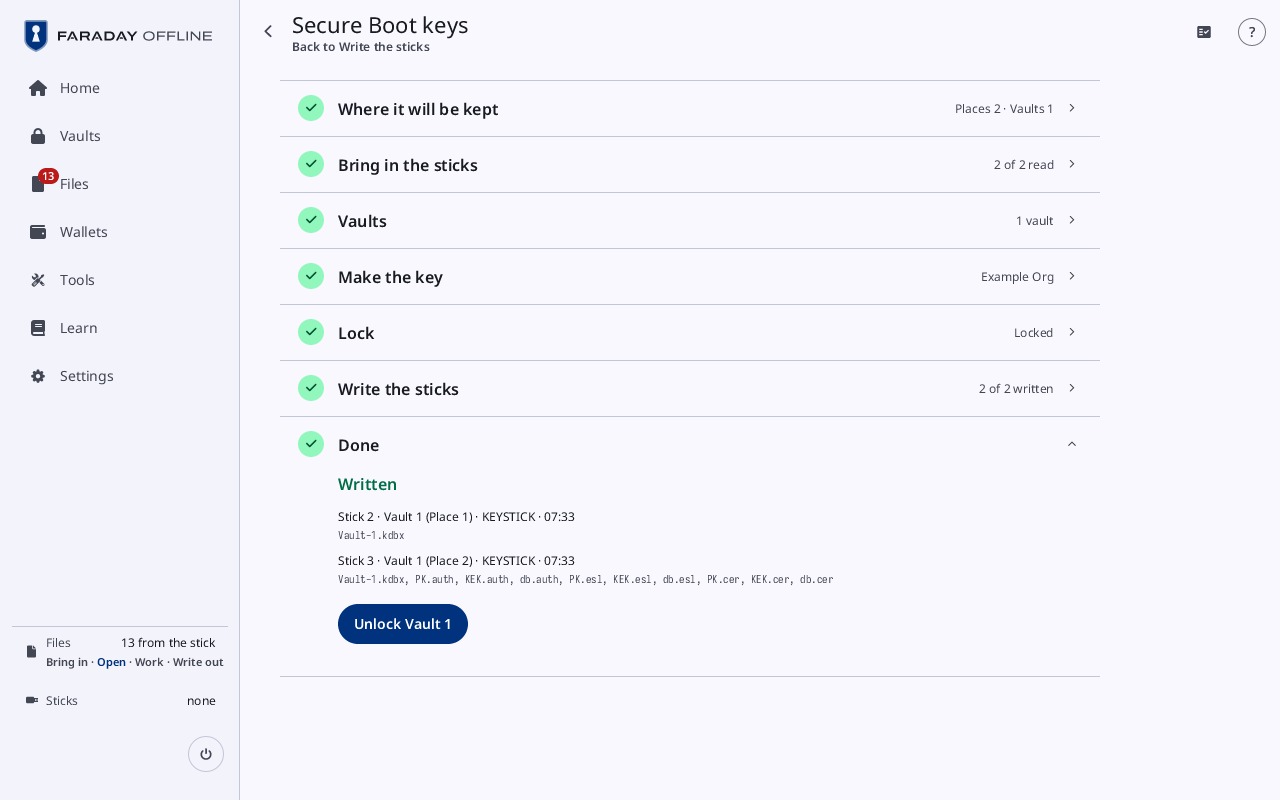
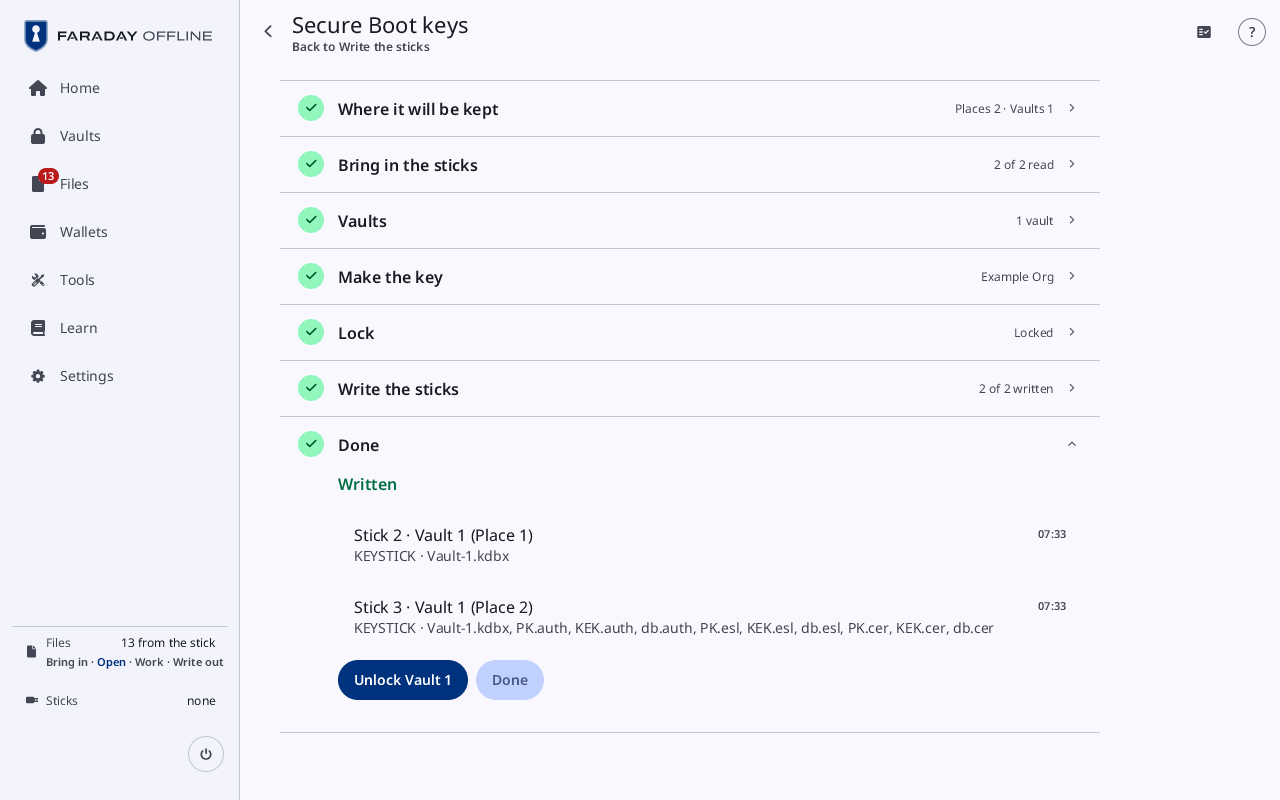
A step's count in Spend, Restore and Back up reads "Step 6" with no total, since the list of steps grows or shrinks as the flow goes on, and Back up's Done page lists one row per stick written and ends on a filled Done button that leaves the flow as the back arrow does; a stick's row there states wh
Material: progress-indicators, buttons, lists
Reviewed: repo.tests-user-facing
Reviewed: tree.image-metadata
Reviewed: crypto.kept-values
Reviewed: crypto.costs-said
Reviewed: keys.secret-files
Reviewed: keys.child-vault-only
Reviewed: speed.late-flow-timed
Reviewed: speed.shown-secret-held
Reviewed: structure.areas-private
Reviewed: strings.no-explanation
Reviewed: strings.plain
Reviewed: strings.medium
Reviewed: design.left-out
Reviewed: guide.pictures

diff --git a/faraday/faraday-core/src/backup_flow/screen.rs b/faraday/faraday-core/src/backup_flow/screen.rs
@@ -1,5 +1,5 @@
 //! The backup flow's cards (`docs/BACKUP-FLOW.md` §4, §5): step cards on a
-//! wide panel, pages with "Step 2 of 7" on a small one. Drawing only; what
+//! wide panel, pages with "Step 2" on a small one. Drawing only; what
 //! a press does is `backup_flow/steps.rs`. The Create a vault form is
 //! `vault::screen::create`, drawn in the flow's place while a vault is
 //! made.
@@ -94,6 +94,7 @@ pub(crate) fn draw(app: &View, ui: &mut Ui, x0: f32, cw: f32, h: f32) {
         guided: f.is_setup() && app.guided(),
         switch: f.is_setup(),
         wrap_closed: false,
+        total_fixed: false,
         note: None,
         chip: named.map(|n| n.1),
         chip_tap: None,
@@ -1510,20 +1511,16 @@ fn done_body(app: &View, f: &BackupFlow, ui: &mut Ui, x: f32, y: f32, w: f32) ->
             .flow_slot_row(k)
             .unwrap_or_else(|| f.target_short(&s.target, app.medium.noun()));
         let at = read_time(app, wr.time);
-        cy += ui.wrap_as(
-            (x, cy, w),
-            BODY_S,
-            Role::OnSurface,
-            &format!("{name} · {} · {at}", wr.label),
-        ) + 4.0;
         // What was written to it, the public files with the copies.
         let files: Vec<&str> = wr.files.iter().map(|(n, _)| n.as_str()).collect();
-        cy += ui.wrap_as(
-            (x, cy, w),
-            BODY_S.mono(),
-            Role::OnSurfaceVariant,
-            &files.join(", "),
-        ) + 8.0;
+        let sup = fill(FEN.backup_flow_slot_row, &[&wr.label, &files.join(", ")]);
+        let it = faraday_ui::roles::ListItem {
+            headline: &name,
+            supporting: &sup,
+            trailing: Some((&at, Role::OnSurfaceVariant.paint())),
+            action: fa(F::Back),
+        };
+        cy += ui.list_item_still((x, cy, w), &it);
     }
     cy += 8.0;
     // In Guided, extra copies (`docs/BACKUP-FLOW.md` §17.19 item 7).
@@ -1539,14 +1536,14 @@ fn done_body(app: &View, f: &BackupFlow, ui: &mut Ui, x: f32, y: f32, w: f32) ->
             Style::Primary,
             fa(F::UnlockDone(v)),
         ));
-    } else if f.kind.is_wallet() {
-        // A plan with no vault leaves nothing to unlock.
-        items.push((
-            FEN.backup_flow_leave.to_string(),
-            Style::Primary,
-            fa(F::Leave),
-        ));
     }
+    // Done leaves the flow as the back arrow does.
+    let lead = if items.is_empty() {
+        Style::Primary
+    } else {
+        Style::Tonal
+    };
+    items.push((FEN.backup_flow_done_button.to_string(), lead, fa(F::Back)));
     let refs: Vec<(&str, Style, Action)> =
         items.iter().map(|(l, s, a)| (l.as_str(), *s, *a)).collect();
     cy += crate::screens::wrap_buttons(ui, x, cy, w, 40.0, &refs) + 6.0;

diff --git a/faraday/faraday-core/tests/all/spend_loaded.rs b/faraday/faraday-core/tests/all/spend_loaded.rs
@@ -288,3 +288,78 @@ fn a_loaded_wallets_card_keeps_its_lines_apart_at_every_text_size() {
         }
     }
 }
+
+/// A step's count never states a total that a later step changes: the
+/// number of steps is not known before the flow's input is read.
+#[test]
+fn a_spend_s_step_count_states_no_total() {
+    let mut app = spending_review(false);
+    app.event(Event::Display(DisplayInfo {
+        width: 480,
+        height: 640,
+        dpi: 160,
+        inset_bottom: 0,
+        inset_top: 0,
+        buttons: 0,
+        camera_fixed: false,
+        secure: SecureHardware::None,
+        boot: BootState::Unknown,
+        memory_mib: None,
+    }));
+    let shown = crate::common::texts(&mut app);
+    assert!(
+        shown.iter().any(|t| t.starts_with("Step ")),
+        "a step is counted: {shown:?}"
+    );
+    assert!(
+        !shown
+            .iter()
+            .any(|t| t.starts_with("Step ") && t.contains(" of ")),
+        "a step count states a total: {shown:?}"
+    );
+}
+
+/// Spend from a backup counts its steps without a total: the list grows
+/// once the transaction is read.
+#[test]
+fn spending_from_a_backup_counts_its_steps_without_a_total() {
+    use faraday_core::strings::EN;
+    let c = testkit::compute();
+    let mut app = with_files(vec![savings_psbt()]);
+    app.event(Event::Display(DisplayInfo {
+        width: 480,
+        height: 640,
+        dpi: 160,
+        inset_bottom: 0,
+        inset_top: 0,
+        buttons: 0,
+        camera_fixed: false,
+        secure: SecureHardware::None,
+        boot: BootState::Unknown,
+        memory_mib: None,
+    }));
+    add_key(&mut app, 0);
+    add_key(&mut app, 1);
+    app.session
+        .add_wallet(
+            &c,
+            "Savings",
+            &kit("savings").descriptor,
+            EN.create_make_made_here,
+            faraday_core::wallet::Origin::Statement,
+        )
+        .unwrap();
+    app.press(Action::Nav(Screen::SpendBackup));
+    app.press(Action::SpendBackup(F::SpendFrom(0)));
+    let shown = crate::common::texts(&mut app);
+    assert!(
+        shown.iter().any(|t| t.starts_with("Step ")),
+        "a step is counted: {shown:?}"
+    );
+    assert!(
+        !shown
+            .iter()
+            .any(|t| t.starts_with("Step ") && t.contains(" of ")),
+        "a step count states a total: {shown:?}"
+    );
+}

diff --git a/faraday/faraday-ui/src/roles.rs b/faraday/faraday-ui/src/roles.rs
@@ -615,11 +615,23 @@ impl<A: Copy + PartialEq> Ui<'_, A> {
     /// or three lines by its supporting text (the third line cut with an
     /// ellipsis); `chosen` in Material's selected state (secondary
     /// container). The whole item takes its press. Returns its height.
-    pub fn list_item(
+    pub fn list_item(&mut self, at: (f32, f32, f32), it: &ListItem<'_, A>, chosen: bool) -> f32 {
+        self.list_item_as(at, it, chosen, true)
+    }
+
+    /// A list item as [`Ui::list_item`] draws it that takes no press: a
+    /// row that only states what is there (Material 3 Lists, a
+    /// non-interactive item). Its `action` is not used. Returns its height.
+    pub fn list_item_still(&mut self, at: (f32, f32, f32), it: &ListItem<'_, A>) -> f32 {
+        self.list_item_as(at, it, false, false)
+    }
+
+    fn list_item_as(
         &mut self,
         (x, y, w): (f32, f32, f32),
         it: &ListItem<'_, A>,
         chosen: bool,
+        pressed: bool,
     ) -> f32 {
         let lines = self.list_lines(w, it);
         let h = self.list_item_height(w, it);
@@ -630,7 +642,9 @@ impl<A: Copy + PartialEq> Ui<'_, A> {
             self.fill(x, y, w, h, SHAPE_L, selected_or(true, Role::Surface));
         }
         let ink = on_selected(chosen, Role::OnSurface);
-        self.press(Shape::new(x, y, w, h, SHAPE_L), ink, it.action);
+        if pressed {
+            self.press(Shape::new(x, y, w, h, SHAPE_L), ink, it.action);
+        }
         let (line, sup) = (self.line_as(BODY_L), self.line_as(BODY_M));
         let head_lines = self.list_head_lines(w, it);
         let head = line * head_lines as f32;

diff --git a/faraday/faraday-core/tests/all/restore.rs b/faraday/faraday-core/tests/all/restore.rs
@@ -882,3 +882,36 @@ fn a_codex32_secret_read_at_restores_scan_goes_into_its_slot() {
     let s = app.restore().unwrap().seeds.as_ref().unwrap();
     assert_eq!(s.keys, vec![fp], "the slot does not hold the key");
 }
+
+/// A step's count never states a total that a later step changes: the
+/// small panel's Restore reads "Step 2", not "Step 2 of 6".
+#[test]
+fn a_restore_s_step_count_states_no_total() {
+    let mut app = shown();
+    app.event(Event::Display(DisplayInfo {
+        width: 480,
+        height: 640,
+        dpi: 160,
+        inset_bottom: 0,
+        inset_top: 0,
+        buttons: 0,
+        camera_fixed: false,
+        secure: SecureHardware::None,
+        boot: BootState::Unknown,
+        memory_mib: None,
+    }));
+    app.press(Action::RestoreWallet);
+    app.press(Action::RKind(MULTI));
+    app.press(Action::RNext(KIND));
+    let shown = crate::common::texts(&mut app);
+    assert!(
+        shown.iter().any(|t| t.starts_with("Step ")),
+        "a step is counted: {shown:?}"
+    );
+    assert!(
+        !shown
+            .iter()
+            .any(|t| t.starts_with("Step ") && t.contains(" of ")),
+        "a step count states a total: {shown:?}"
+    );
+}

diff --git a/faraday/faraday-core/src/flow.rs b/faraday/faraday-core/src/flow.rs
@@ -85,6 +85,10 @@ pub struct Column<'a> {
     /// On the compact layout, whether a closed card's line too long for its
     /// row wraps; otherwise it is cut to fit.
     pub wrap_closed: bool,
+    /// Whether the number of steps is known before the first and never
+    /// changes; where it can (Spend, Restore, Backup)
+    /// a step reads "Step N" alone.
+    pub total_fixed: bool,
     /// A line at the head of the column, about the page as a whole.
     pub note: Option<&'a str>,
     /// A chip at the head of the column: where the flow goes next, or
@@ -476,7 +480,11 @@ fn paged(
                 String::new()
             } else {
                 let (n, of) = (i + 1 - lead, cards.len() - lead);
-                fill(EN.flow_step_count, &[&n.to_string(), &of.to_string()])
+                if col.total_fixed {
+                    fill(EN.flow_step_count, &[&n.to_string(), &of.to_string()])
+                } else {
+                    fill(EN.flow_step_number, &[&n.to_string()])
+                }
             };
             let count_w = ui.measure_as(BODY_S, &count);
             let title_w = inner - count_w - 10.0;

diff --git a/faraday/faraday-core/tests/all/backup_flow.rs b/faraday/faraday-core/tests/all/backup_flow.rs
@@ -929,6 +929,24 @@ fn home_leads_with_the_backup_not_finished_and_the_power_sheet_lists_it() {
 }
 
 #[test]
+fn the_done_page_lists_one_row_per_stick_and_ends_on_done() {
+    let mut shell = Shell::new();
+    let mut app = gpg_locked(&mut shell);
+    write_all(&mut shell, &mut app, &[("S1", false), ("S2", true)]);
+    assert_eq!(step(&app), Step::Done);
+    let t = texts(&mut app);
+    let rows = t
+        .iter()
+        .filter(|x| x.starts_with("Stick ") && x.contains("(Place"))
+        .count();
+    assert_eq!(rows, 2, "one row per stick written: {t:?}");
+    assert!(has(&mut app, "Done"), "Done is offered: {t:?}");
+    assert!(offered(&mut app, Action::Flow(F::Back)));
+    app.press(Action::Flow(F::Back));
+    assert_ne!(app.screen, Screen::BackupFlow, "Done leaves the flow");
+}
+
+#[test]
 fn a_flow_left_hands_a_stick_to_the_visit_with_its_files_in_the_backup() {
     let mut shell = Shell::new();
     let mut app = gpg_locked(&mut shell);

diff --git a/faraday/faraday-strings/src/en.rs b/faraday/faraday-strings/src/en.rs
@@ -2633,6 +2633,8 @@ strings! {
     flow_change: "Change",
     /// Text in `paged`. `{}`: `i + 1`, `cards.len()`.
     flow_step_count: "Step {} of {}",
+    /// Text in `paged` where the step count can change. `{}`: `i + 1`.
+    flow_step_number: "Step {}",
     /// Text in `paged`.
     flow_about_this_step: "About this step",
     /// Text in `paged`.
@@ -11089,6 +11091,8 @@ strings! {
     backup_flow_first_gone_toast: "A written copy was deleted",
     /// Done's result.
     backup_flow_done: "Written",
+    /// The button that leaves the flow once its files are written.
+    backup_flow_done_button: "Done",
     /// The key page's row.
     backup_flow_row: "Backup",
     /// The Backup row before any write.

diff --git a/faraday/faraday-core/src/screens/backup.rs b/faraday/faraday-core/src/screens/backup.rs
@@ -394,6 +394,7 @@ pub(super) fn draw(app: &View, ui: &mut Ui, x0: f32, cw: f32, h: f32) {
         guided: app.guided(),
         switch: checklist,
         wrap_closed: false,
+        total_fixed: false,
         note: None,
         // From Create the wallet is the one just made, and the way on is
         // its card.

diff --git a/faraday/faraday-core/src/vault/screen.rs b/faraday/faraday-core/src/vault/screen.rs
@@ -871,6 +871,7 @@ pub(crate) fn create(app: &View, ui: &mut Ui, x0: f32, cw: f32, h: f32) {
         guided: app.guided(),
         switch: true,
         wrap_closed: false,
+        total_fixed: true,
         note: None,
         chip: then.as_deref(),
         chip_tap: None,

diff --git a/faraday/faraday-core/src/screens/restore.rs b/faraday/faraday-core/src/screens/restore.rs
@@ -109,6 +109,7 @@ pub(super) fn draw(app: &View, ui: &mut Ui, x0: f32, cw: f32, h: f32) {
         guided: app.guided(),
         switch: true,
         wrap_closed: false,
+        total_fixed: false,
         note: None,
         chip: None,
         chip_tap: None,

diff --git a/faraday/faraday-core/src/keygen/screen.rs b/faraday/faraday-core/src/keygen/screen.rs
@@ -159,6 +159,7 @@ pub(crate) fn draw(app: &View, ui: &mut Ui, x0: f32, cw: f32, h: f32) {
         guided: app.guided(),
         switch: true,
         wrap_closed: false,
+        total_fixed: true,
         note: None,
         chip: None,
         chip_tap: None,

diff --git a/faraday/faraday-core/src/screens/message.rs b/faraday/faraday-core/src/screens/message.rs
@@ -101,6 +101,7 @@ pub(super) fn draw(app: &View, ui: &mut Ui, x0: f32, cw: f32, h: f32) {
         guided: app.guided(),
         switch: true,
         wrap_closed: false,
+        total_fixed: true,
         note: None,
         chip: None,
         chip_tap: None,
